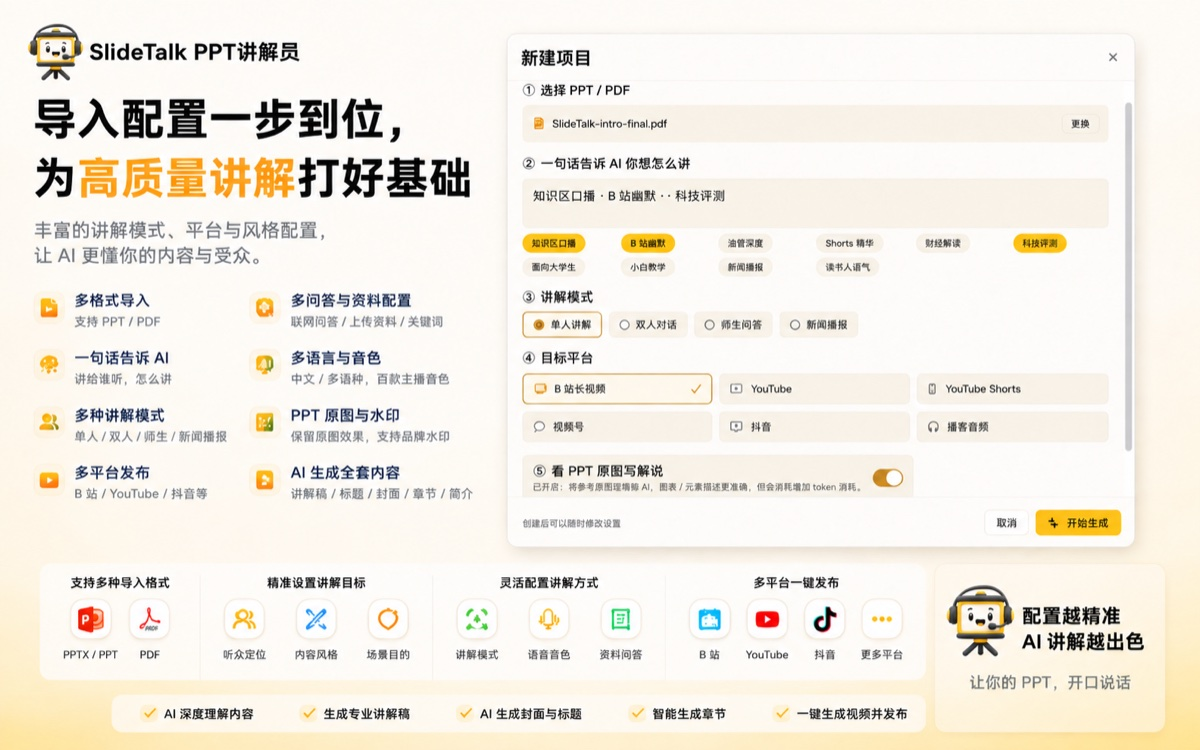
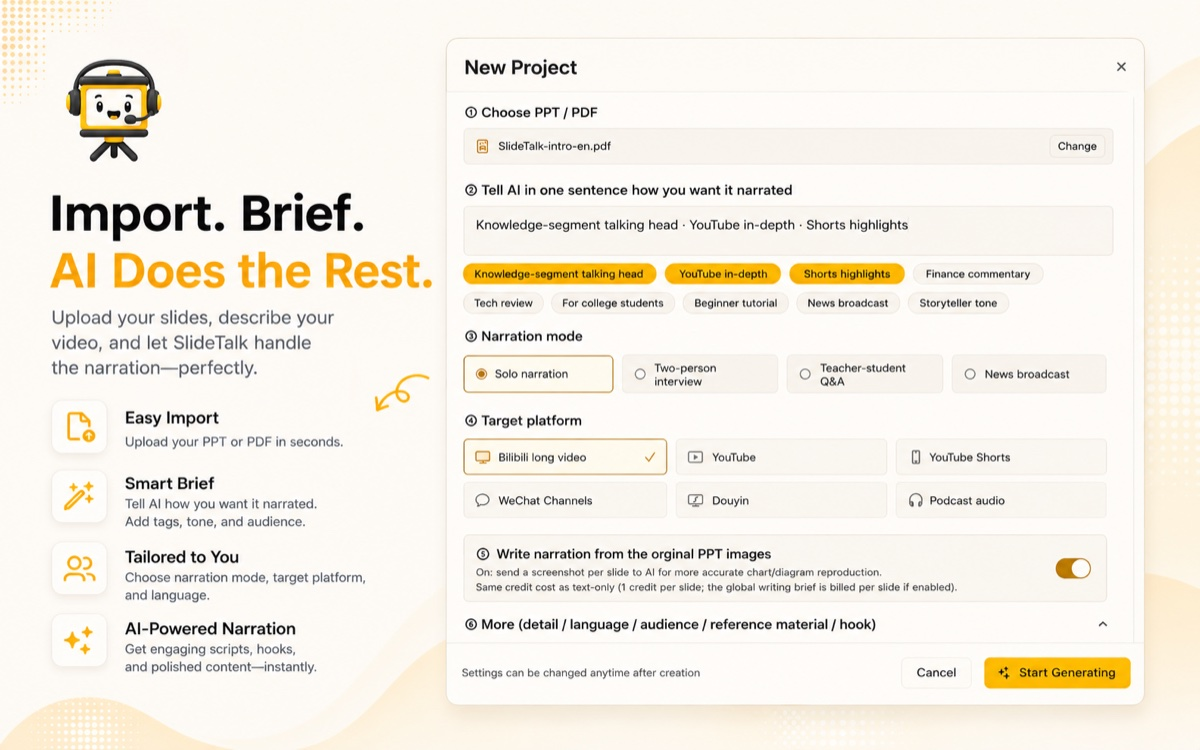
Use English screenshots in the English README
The English page was illustrated with Chinese UI captures. The four
English compositions now live at images/ and the Chinese ones moved to
images/zh-CN/, so README.zh-CN.md keeps matching screenshots.

- hero, import, publish and voices rebuilt from the English macOS set
  (Studio, New Project, Publish Center, Voice Library) at 1200px, ~200KB each
- both READMEs keep their own 1200x630 social card: images/og.jpg and
  images/zh-CN/og.jpg
- build_pages.py serves images/<locale>/og.jpg when it exists and
  localizes og:image:alt
- drop the unused images/app-mac.jpg

diff --git a/tools/build_pages.py b/tools/build_pages.py
@@ -314,15 +314,18 @@ def render_article(article, route, base_url, guides, verification, routes):
     if len(desc) > 180:
         desc = desc[:177].rstrip() + "…"
     page_title = article.title if SITE_NAME in article.title else f"{article.title} | {SITE_NAME}"
-    og_image = ""
-    if OG_IMAGE in routes:
-        og_image = escape(base_url + "/" + OG_IMAGE)
+    # Prefer a localized social card when one exists, e.g. images/zh-CN/og.jpg.
+    og_path = f"images/{locale}/og.jpg" if f"images/{locale}/og.jpg" in routes else OG_IMAGE
+    og_image = escape(base_url + "/" + og_path) if og_path in routes else ""
+    og_alt = ("SlideTalk 把 PPT 变成带 AI 配音、字幕和封面的讲解视频。"
+              if locale in {"zh-CN", "zh-TW"} else
+              "SlideTalk turns a PowerPoint deck into a narrated video with subtitles, cover and titles.")
     social = ""
     if og_image:
         social = f"""<meta property="og:image" content="{og_image}">
 <meta property="og:image:width" content="1200">
 <meta property="og:image:height" content="630">
-<meta property="og:image:alt" content="SlideTalk turns a PowerPoint deck into a narrated video with subtitles, cover and titles.">
+<meta property="og:image:alt" content="{og_alt}">
 <meta name="twitter:card" content="summary_large_image">
 <meta name="twitter:image" content="{og_image}">"""
     schema = structured_data(article, route, base_url, locale)

diff --git a/README.zh-CN.md b/README.zh-CN.md
@@ -9,7 +9,7 @@
 </p>
 
 <p align="center">
-  <img src="images/hero.jpg" alt="SlideTalk 创作工作室：左侧是幻灯片缩略图，中间是逐页 AI 讲解词，右侧是平台、讲解模式、内容意图和音色设置" width="100%">
+  <img src="images/zh-CN/hero.jpg" alt="SlideTalk 创作工作室：左侧是幻灯片缩略图，中间是逐页 AI 讲解词，右侧是平台、讲解模式、内容意图和音色设置" width="100%">
 </p>
 
 拖入一份 PPT，说一句「这期讲给谁听」，AI 写稿、配音、加字幕和场景动效，渲染成片，再顺手把封面、标题、简介、标签、章节一起做出来。**10 分钟拿到一条能直接发到 B 站、YouTube、视频号、抖音的成品视频**——不用出镜、不用开口、不用学剪辑。
@@ -38,7 +38,7 @@
 ## 三步，从 PPT 到可发布视频
 
 <p align="center">
-  <img src="images/import.jpg" alt="新建项目面板：选择 PPT 或 PDF，用一句话告诉 AI 讲给谁听，再选讲解模式、目标平台和音色" width="100%">
+  <img src="images/zh-CN/import.jpg" alt="新建项目面板：选择 PPT 或 PDF，用一句话告诉 AI 讲给谁听，再选讲解模式、目标平台和音色" width="100%">
 </p>
 
 1. **导入**：把 `.pptx` / `.ppsx` / `.pdf` 拖进 App，或者直接拖图片（PNG / JPG / HEIC / WEBP）。PDF 逐页渲染，版式还原最准；PPTX 保留文字、图片、形状、表格的原始位置。
@@ -48,7 +48,7 @@
 ## 你拿到的不是一个 mp4，是一整套发布物料
 
 <p align="center">
-  <img src="images/publish.jpg" alt="发布中心：自动生成封面、简介、标签和 8 个章节时间点，可一键发布到 B 站" width="100%">
+  <img src="images/zh-CN/publish.jpg" alt="发布中心：自动生成封面、简介、标签和 8 个章节时间点，可一键发布到 B 站" width="100%">
 </p>
 
 大多数工具止步于「导出一个 mp4」。而一条视频能不能涨粉，往往取决于导出之后那半小时：封面够不够抓眼、标题有没有关键词、简介有没有章节。SlideTalk 的发布中心把这些一起做掉：
@@ -76,7 +76,7 @@
 ## 58 款音色，4 种讲解模式
 
 <p align="center">
-  <img src="images/voices.jpg" alt="音色库：42 款中文音色与 16 款英文音色，按讲师教育、商务播报、亲切生活、爆款特色分类，可逐个试听" width="100%">
+  <img src="images/zh-CN/voices.jpg" alt="音色库：42 款中文音色与 16 款英文音色，按讲师教育、商务播报、亲切生活、爆款特色分类，可逐个试听" width="100%">
 </p>
 
 - 音色基于火山 Seed-TTS 2.0，**42 款中文 + 16 款英文**，分「讲师·教育」「商务·播报」「亲切·生活」「爆款·特色」四类；0.5x–2.0x 语速，可逐句试听，试听不消耗积分。
